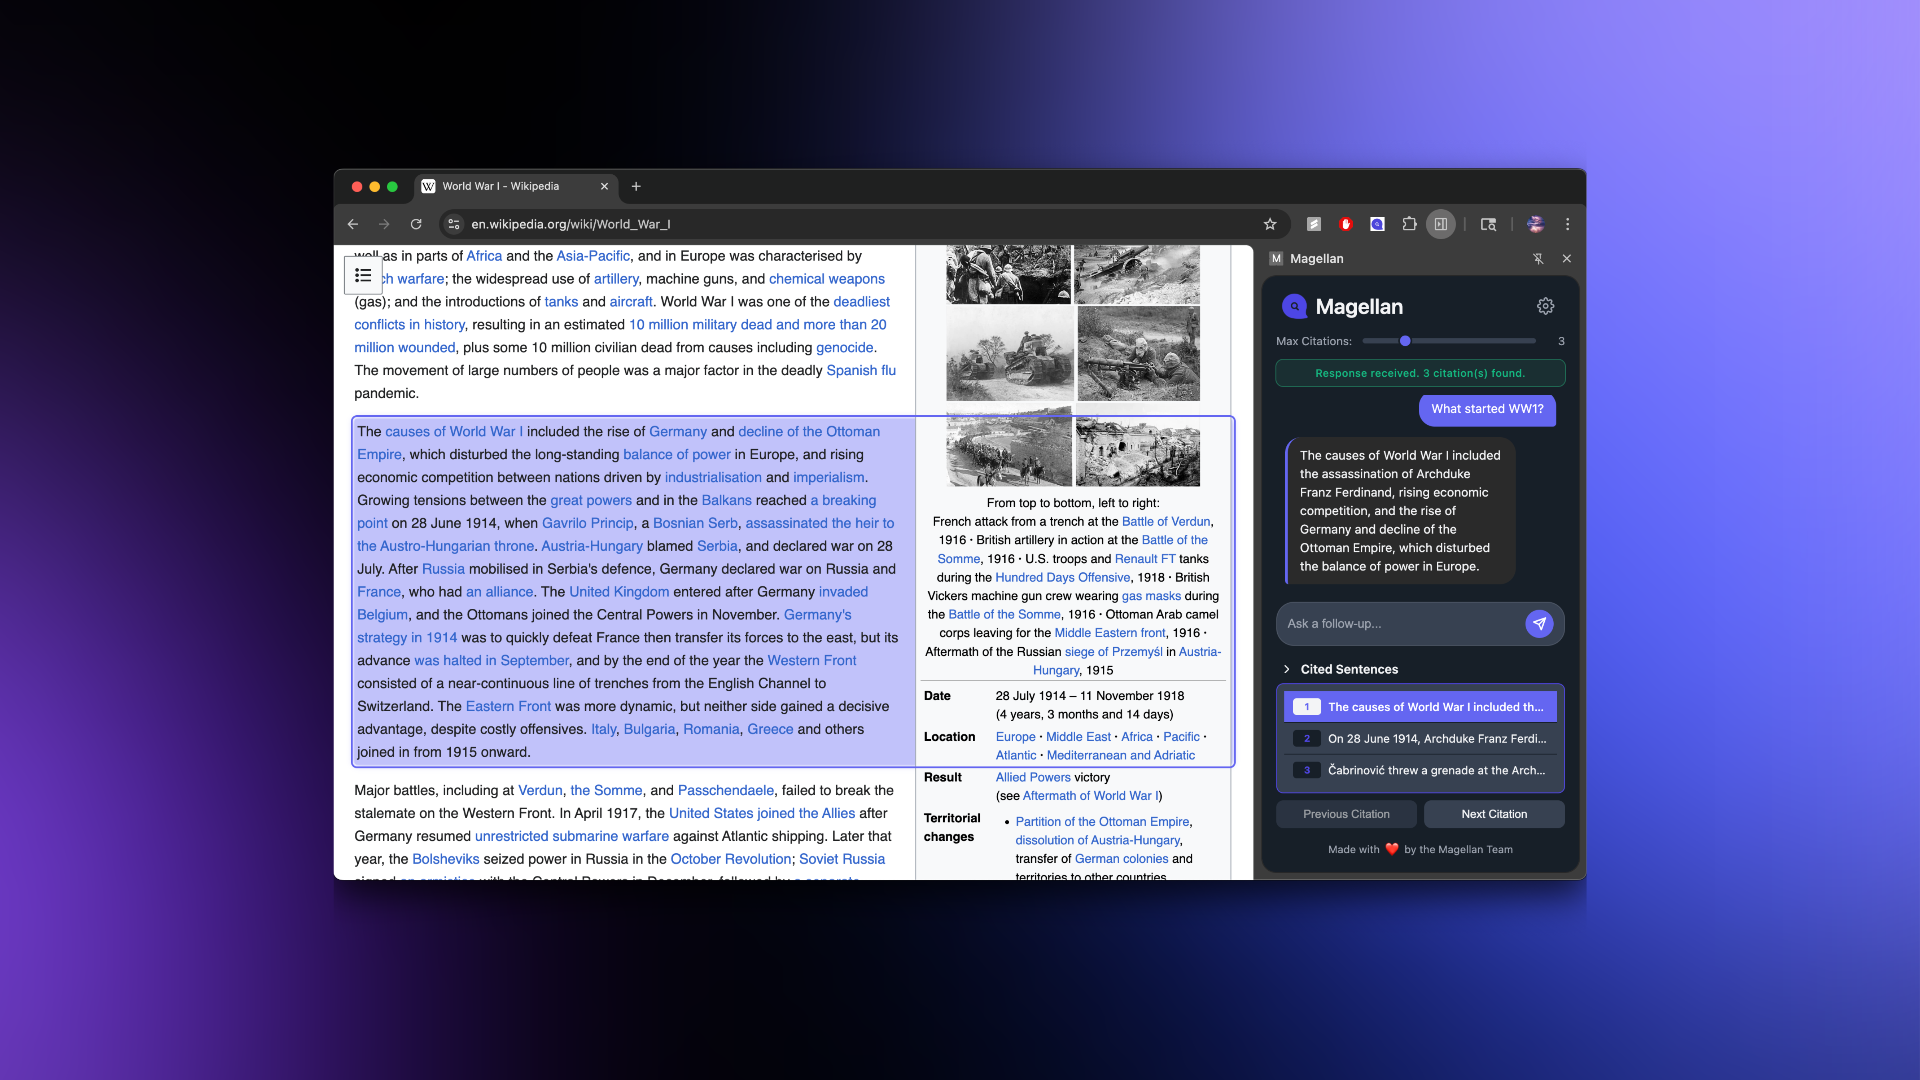
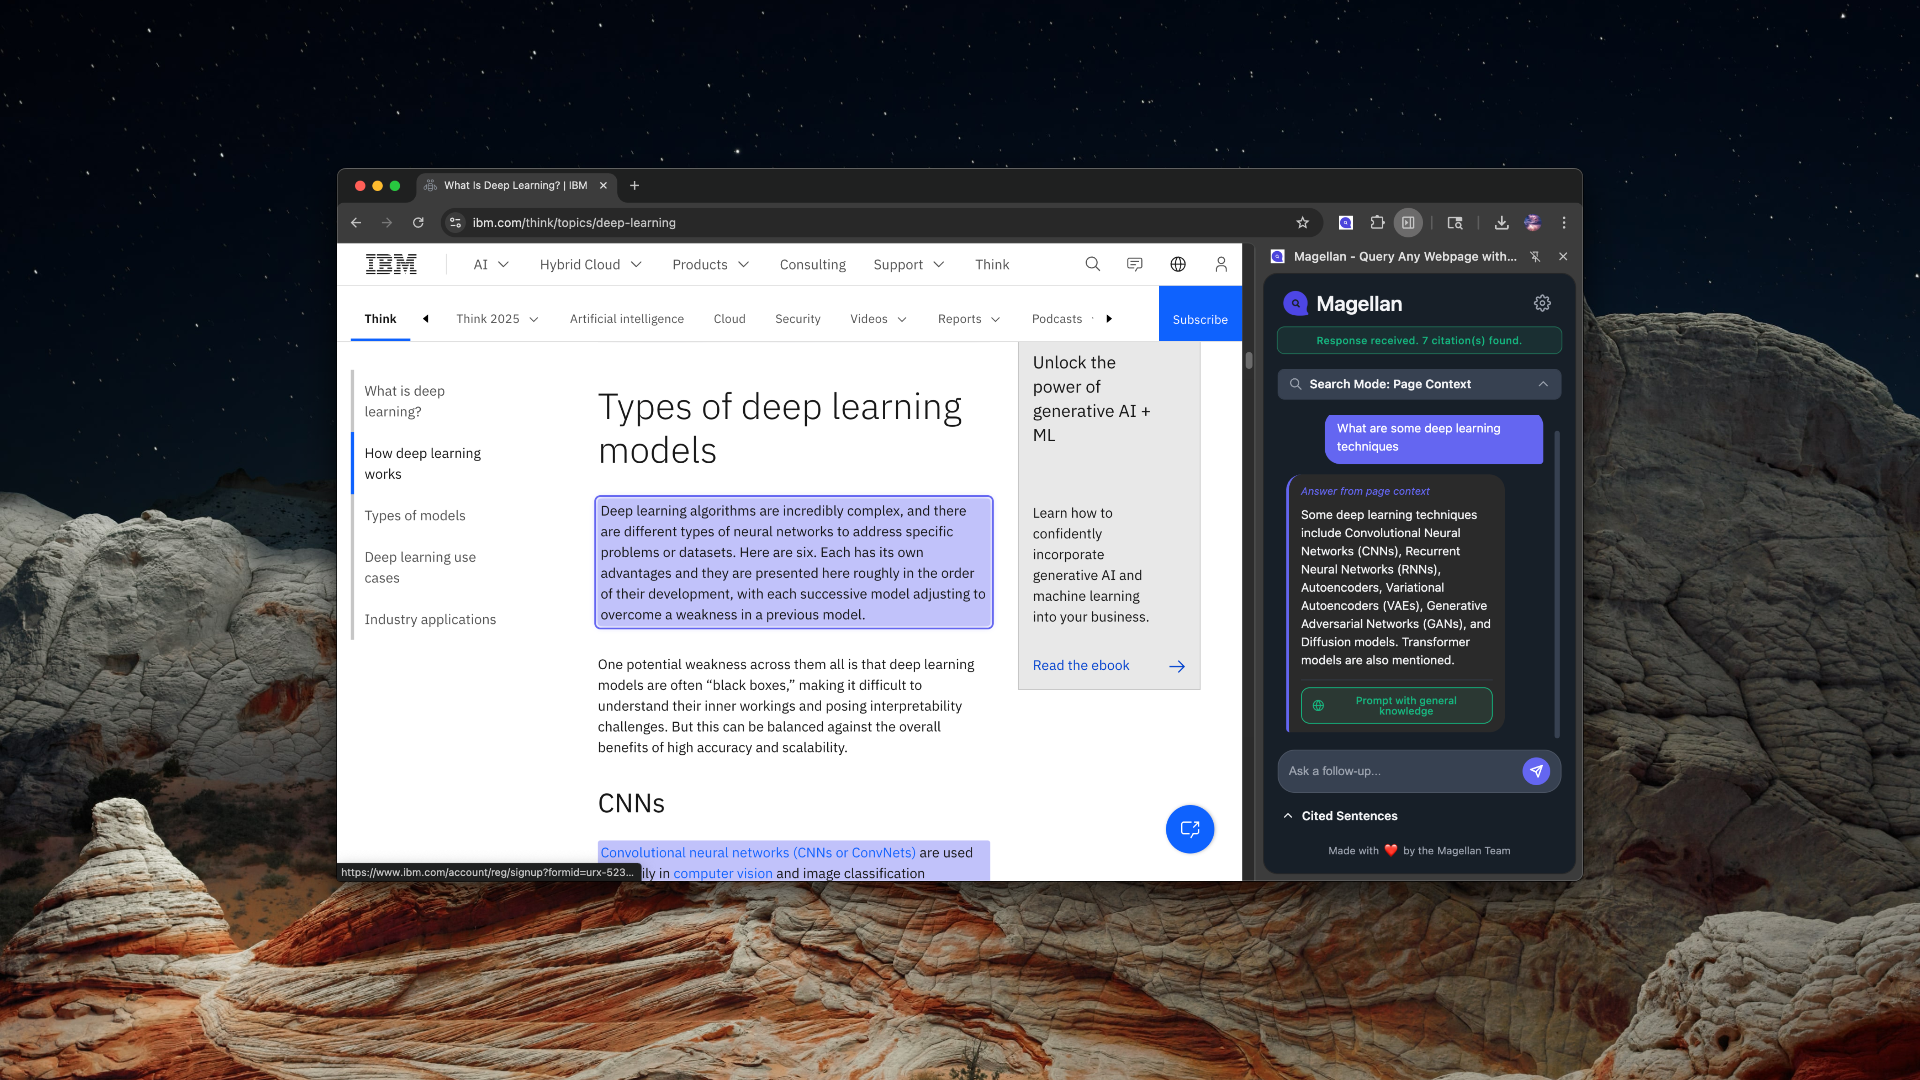
Update readme

diff --git a/README.md b/README.md
@@ -10,29 +10,32 @@ Magellan is an open-source Chrome extension that brings conversational AI to you
 
 ![Magellan Screenshot](public/screenshot.png)
 
-## 🌟 Features
+## Features
 
-- 💬 **Conversational AI** – Ask questions and get answers directly from the page, powered by Google Gemini
-- 🔗 **Smart Citations** – See exactly where each answer comes from, with toggleable highlights and one-click navigation
-- 🧠 **Context-Aware Tabs** – Each tab keeps its own chat and memory, so your questions stay relevant to the content you're viewing
-- 📜 **Citation Recall** – Pull up sources from earlier in the chat, even if you've moved on
-- 🚀 **Seamless Navigation** – Effortlessly jump to the right spot with smooth scrolling and intuitive controls
+- 🧠 **AI-Powered Search** – Ask questions about any webpage and get instant answers
+  - **Multiple Search Modes**:
+    - **Page Context**: Search only within the current page content
+    - **Blended**: Search page first, then use general knowledge if needed
+    - **General Knowledge**: Use only general knowledge, ignore page content
+- 📚 **Smart Citations** – Get direct links to the relevant parts of the page
+- 🎯 **Visual Highlights** – See exactly where the information comes from with highlighted text
+- 💬 **Conversation History** – Keep track of your questions and answers
 - 🧼 **Sleek, Responsive UI** – Clean design that fits right into your browser workflow
 - 💸 **100% Free** – No subscriptions, no paywalls, no data harvesting
-- **AI-Powered Search**: Ask questions about any webpage and get instant answers
-- **Multiple Search Modes**:
-  - **Page Context**: Search only within the current page content
-  - **Blended**: Search page first, then use general knowledge if needed
-  - **General Knowledge**: Use only general knowledge, ignore page content
 
 ## 🚀 Quick Start
 
-1. Install Magellan from the [Chrome Web Store](https://chromewebstore.google.com/detail/magellan/ekkajebdacenikgmbgkdnmememnlibnd)
-2. Get your Google Gemini API key:
+1. Install the extension:
+
+   - [Get it from the Chrome Web Store](https://chromewebstore.google.com/detail/magellan/ekkajebdacenikgmbgkdnmememnlibnd)
+   - Or [build it yourself](#development)
+
+2. Get your API key:
+
    - Visit [Google AI Studio](https://makersuite.google.com/app/apikey)
    - Create a new API key
-   - Click the Magellan extension icon in your browser toolbar
-   - Enter your API key in the settings
+   - Copy the key
+
 3. Start using Magellan:
    - Click the Magellan icon in your Chrome toolbar to open the sidebar
    - Choose your preferred search mode:
@@ -41,7 +44,6 @@ Magellan is an open-source Chrome extension that brings conversational AI to you
      - **General Knowledge**: Use when you want answers not limited to the page content
    - Type your question about the current page
    - Get AI-powered answers with highlighted citations
-   - Click citations to navigate to the relevant parts of the page
 
 💡 **Pro Tip**: For quick access, set up a keyboard shortcut in Chrome's extension settings:
 
